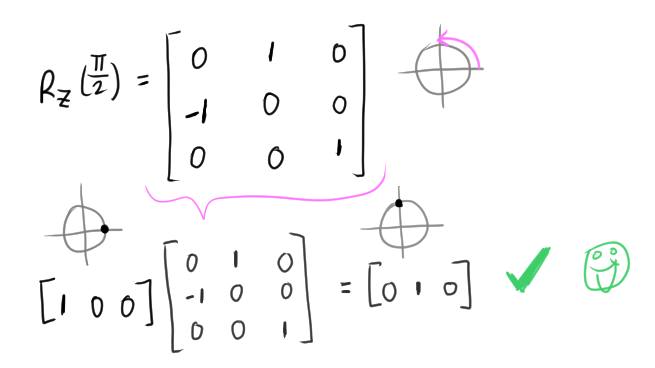
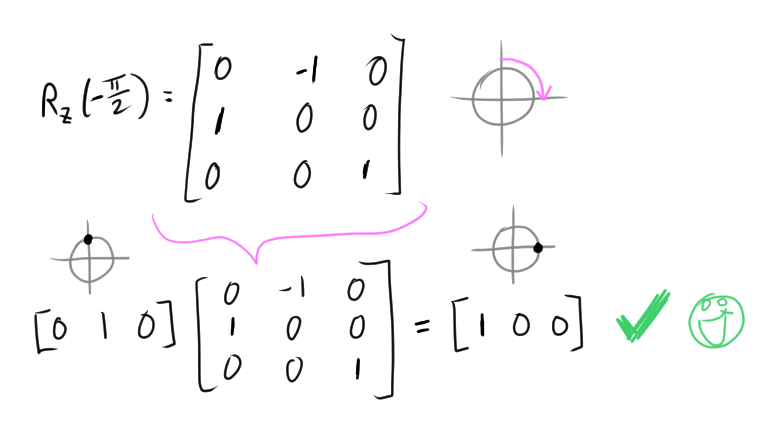
Fix image names add clockwise check

diff --git a/scratch-a-pixel/notes/02-geometry/04-matrices/README.md b/scratch-a-pixel/notes/02-geometry/04-matrices/README.md
@@ -177,10 +177,13 @@ We know the first column of the matrix computes the x-coordinate of the transfor
 
 ![Fix clockwise 90 matrix](images/fix-clockwise-90-matrix.png)
 
-TODO: Check that this works...
+Let's check to make sure clockwise rotation works:
+![Check clockwise rotation](images/check-fixed-clockwise-90-matrix.png)
+
+It works!! 🕺
 
 Let's make sure the new matrix works for the original 90-degree *counterclockwise* rotation:
-![Check counterclockwise rotation](images/check-fixed-clockwise-90-matrix.png)
+![Check counterclockwise rotation](images/check-fixed-counterclockwise-90-matrix.png)
 
 It works!! 💃
 
